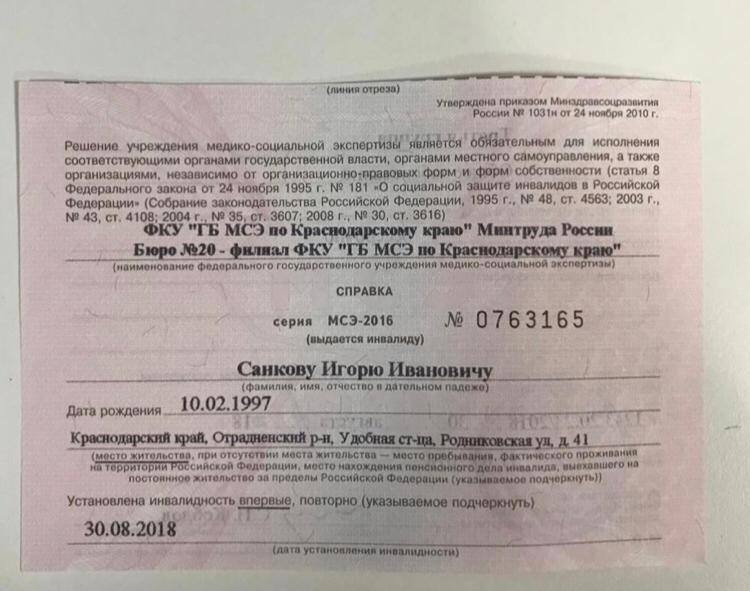
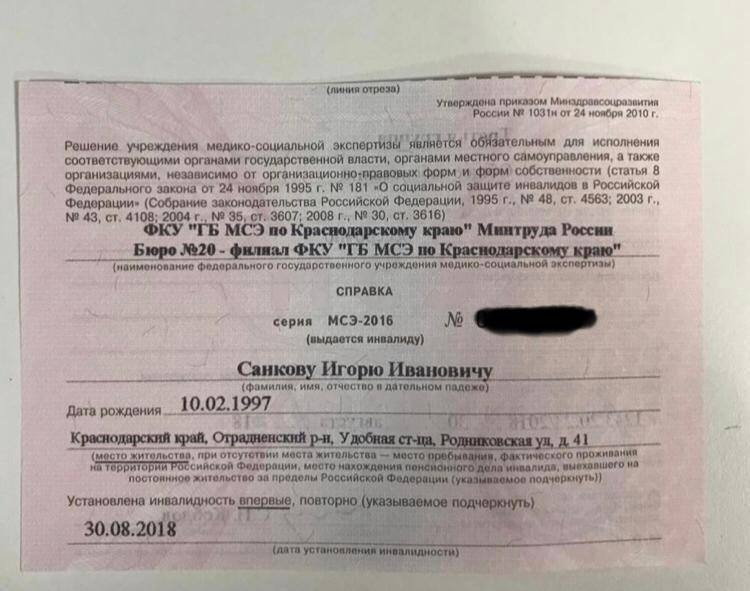
fix: client feedback — rename donate section, reorder, TRX→USDT, blur passports
- Rename "How You Can Help" → "How to Help (Payment Details)" / "Как помочь (реквизиты)"
- Move Donate section above Documents (client standard for charity sites)
- Change TRON (TRX) crypto card to USDT (TRC-20) with Tether icon
- Update nav order: How to Help (CTA) before Documents
- Replace passport photos with blurred versions (series/numbers redacted)

Changed region(s): [[0.6133, 0.5178, 0.7973, 0.5787]]

diff --git a/index.html b/index.html
@@ -42,9 +42,9 @@
                 <a href="#about" class="header__link" data-i18n="nav_about">My Story</a>
                 <a href="#diagnosis" class="header__link" data-i18n="nav_diagnosis">Diagnosis</a>
                 <a href="#rehab" class="header__link" data-i18n="nav_rehab">Rehabilitation</a>
+                <a href="#donate" class="header__link header__link--cta" data-i18n="nav_donate">How to Help</a>
                 <a href="#documents" class="header__link" data-i18n="nav_documents">Documents</a>
                 <a href="#contacts" class="header__link" data-i18n="nav_contacts">Contact</a>
-                <a href="#donate" class="header__link header__link--cta" data-i18n="nav_donate">Donate</a>
             </nav>
             <div class="header__right">
                 <button class="lang-switch" id="langSwitch" aria-label="Switch language">
@@ -186,11 +186,83 @@
         </div>
     </section>
 
+    <!-- ========== DONATE ========== -->
+    <section class="section section--accent" id="donate">
+        <div class="container">
+            <h2 class="section__title" data-i18n="donate_title">How to Help (Payment Details)</h2>
+            <p class="section__subtitle" data-i18n="donate_subtitle">Any support — financial or informational — gives me a chance to live fully and raise my son.</p>
+
+            <div class="crypto-cards">
+                <!-- BTC -->
+                <div class="crypto-card">
+                    <div class="crypto-card__header">
+                        <svg class="crypto-card__icon" viewBox="0 0 32 32" width="32" height="32"><circle cx="16" cy="16" r="16" fill="#F7931A"/><path d="M22.5 14.2c.3-2-1.2-3.1-3.3-3.8l.7-2.7-1.7-.4-.7 2.6c-.4-.1-.9-.2-1.4-.3l.7-2.7-1.7-.4-.7 2.7c-.4-.1-.7-.2-1-.2l-2.3-.6-.4 1.8s1.2.3 1.2.3c.7.2.8.6.8 1l-.8 3.2c0 0 .1 0 .1 0l-.1 0-1.1 4.5c-.1.2-.3.5-.7.4 0 0-1.2-.3-1.2-.3l-.8 1.9 2.2.5c.4.1.8.2 1.2.3l-.7 2.8 1.7.4.7-2.7c.5.1.9.2 1.4.3l-.7 2.7 1.7.4.7-2.8c2.9.5 5.1.3 6-2.3.7-2.1 0-3.3-1.6-4.1 1.1-.3 2-1 2.2-2.5zm-3.9 5.5c-.5 2.1-4.1 1-5.3.7l.9-3.8c1.2.3 4.9.9 4.4 3.1zm.5-5.5c-.5 1.9-3.5.9-4.4.7l.8-3.4c1 .2 4.1.7 3.6 2.7z" fill="#fff"/></svg>
+                        <span class="crypto-card__name">Bitcoin (BTC)</span>
+                    </div>
+                    <div class="crypto-card__address-row">
+                        <code class="crypto-card__address" id="addr-btc">3D8VqbtrFJvCijUMFXQT9sSiSg5KHkBb73</code>
+                        <button class="crypto-card__copy" data-copy="3D8VqbtrFJvCijUMFXQT9sSiSg5KHkBb73" aria-label="Copy BTC address">
+                            <svg viewBox="0 0 24 24" width="18" height="18" fill="none" stroke="currentColor" stroke-width="2"><rect x="9" y="9" width="13" height="13" rx="2"/><path d="M5 15H4a2 2 0 01-2-2V4a2 2 0 012-2h9a2 2 0 012 2v1"/></svg>
+                            <span data-i18n="copy_btn">Copy</span>
+                        </button>
+                    </div>
+                </div>
+
+                <!-- TON -->
+                <div class="crypto-card">
+                    <div class="crypto-card__header">
+                        <svg class="crypto-card__icon" viewBox="0 0 32 32" width="32" height="32"><circle cx="16" cy="16" r="16" fill="#0098EA"/><path d="M10.8 10.4h10.4c1 0 1.7.5 2.1 1.2.4.7.4 1.6-.1 2.4L17 24.3c-.3.4-.6.5-1 .5s-.7-.1-1-.5L8.8 14c-.5-.8-.5-1.7-.1-2.4.4-.7 1.1-1.2 2.1-1.2zm4.3 2.3v8.1l-4.5-6.7c-.2-.3-.2-.5-.1-.8.1-.2.3-.4.7-.4h3.9v-.2zm1.8 0v.2h3.9c.4 0 .6.2.7.4.1.3.1.5-.1.8l-4.5 6.7v-8.1z" fill="#fff"/></svg>
+                        <span class="crypto-card__name">TON</span>
+                    </div>
+                    <div class="crypto-card__address-row">
+                        <code class="crypto-card__address" id="addr-ton">UQDLyrVzIJvvxa_93HpurmGZ-ssXjeB9YnVlUbZwrJx02Ih-</code>
+                        <button class="crypto-card__copy" data-copy="UQDLyrVzIJvvxa_93HpurmGZ-ssXjeB9YnVlUbZwrJx02Ih-" aria-label="Copy TON address">
+                            <svg viewBox="0 0 24 24" width="18" height="18" fill="none" stroke="currentColor" stroke-width="2"><rect x="9" y="9" width="13" height="13" rx="2"/><path d="M5 15H4a2 2 0 01-2-2V4a2 2 0 012-2h9a2 2 0 012 2v1"/></svg>
+                            <span data-i18n="copy_btn">Copy</span>
+                        </button>
+                    </div>
+                </div>
+
+                <!-- USDT TRC-20 -->
+                <div class="crypto-card">
+                    <div class="crypto-card__header">
+                        <svg class="crypto-card__icon" viewBox="0 0 32 32" width="32" height="32"><circle cx="16" cy="16" r="16" fill="#26A17B"/><path d="M17.9 17.1v0c-.1 0-.7.1-2 .1-1 0-1.7 0-1.9-.1-3.7-.2-6.5-1-6.5-2s2.8-1.8 6.5-2v3.2c.3 0 .9.1 2 .1 1.3 0 1.8-.1 1.9-.1v-3.2c3.7.2 6.4 1 6.4 2s-2.7 1.8-6.4 2zm0-4.3v-2.9h5.5V7h-15v2.9h5.5v2.9c-4.2.2-7.3 1.3-7.3 2.5s3.1 2.3 7.3 2.5v9h4v-9c4.1-.2 7.2-1.2 7.2-2.5s-3.1-2.3-7.2-2.5z" fill="#fff"/></svg>
+                        <span class="crypto-card__name">USDT (TRC-20)</span>
+                    </div>
+                    <div class="crypto-card__address-row">
+                        <code class="crypto-card__address" id="addr-usdt">TPA4BQ2QBHq5hQnzwANqUGS7u9sW48oBBe</code>
+                        <button class="crypto-card__copy" data-copy="TPA4BQ2QBHq5hQnzwANqUGS7u9sW48oBBe" aria-label="Copy USDT address">
+                            <svg viewBox="0 0 24 24" width="18" height="18" fill="none" stroke="currentColor" stroke-width="2"><rect x="9" y="9" width="13" height="13" rx="2"/><path d="M5 15H4a2 2 0 01-2-2V4a2 2 0 012-2h9a2 2 0 012 2v1"/></svg>
+                            <span data-i18n="copy_btn">Copy</span>
+                        </button>
+                    </div>
+                </div>
+            </div>
+
+            <p class="donate__share-text" data-i18n="donate_share_text">You can also help by sharing this page.</p>
+
+            <div class="share-buttons">
+                <a class="share-btn share-btn--twitter" id="shareTwitter" href="#" target="_blank" rel="noopener noreferrer" aria-label="Share on X/Twitter">
+                    <svg viewBox="0 0 24 24" width="20" height="20" fill="currentColor"><path d="M18.244 2.25h3.308l-7.227 8.26 8.502 11.24H16.17l-5.214-6.817L4.99 21.75H1.68l7.73-8.835L1.254 2.25H8.08l4.713 6.231zm-1.161 17.52h1.833L7.084 4.126H5.117z"/></svg>
+                    <span data-i18n="share_twitter">Share on X</span>
+                </a>
+                <a class="share-btn share-btn--telegram" id="shareTelegram" href="#" target="_blank" rel="noopener noreferrer" aria-label="Share on Telegram">
+                    <svg viewBox="0 0 24 24" width="20" height="20" fill="currentColor"><path d="M11.944 0A12 12 0 0 0 0 12a12 12 0 0 0 12 12 12 12 0 0 0 12-12A12 12 0 0 0 12 0a12 12 0 0 0-.056 0zm4.962 7.224c.1-.002.321.023.465.14a.506.506 0 0 1 .171.325c.016.093.036.306.02.472-.18 1.898-.962 6.502-1.36 8.627-.168.9-.499 1.201-.82 1.23-.696.065-1.225-.46-1.9-.902-1.056-.693-1.653-1.124-2.678-1.8-1.185-.78-.417-1.21.258-1.91.177-.184 3.247-2.977 3.307-3.23.007-.032.014-.15-.056-.212s-.174-.041-.249-.024c-.106.024-1.793 1.14-5.061 3.345-.479.33-.913.49-1.302.48-.428-.008-1.252-.241-1.865-.44-.752-.245-1.349-.374-1.297-.789.027-.216.325-.437.893-.663 3.498-1.524 5.83-2.529 6.998-3.014 3.332-1.386 4.025-1.627 4.476-1.635z"/></svg>
+                    <span data-i18n="share_telegram">Telegram</span>
+                </a>
+                <a class="share-btn share-btn--whatsapp" id="shareWhatsApp" href="#" target="_blank" rel="noopener noreferrer" aria-label="Share on WhatsApp">
+                    <svg viewBox="0 0 24 24" width="20" height="20" fill="currentColor"><path d="M17.472 14.382c-.297-.149-1.758-.867-2.03-.967-.273-.099-.471-.148-.67.15-.197.297-.767.966-.94 1.164-.173.199-.347.223-.644.075-.297-.15-1.255-.463-2.39-1.475-.883-.788-1.48-1.761-1.653-2.059-.173-.297-.018-.458.13-.606.134-.133.298-.347.446-.52.149-.174.198-.298.298-.497.099-.198.05-.371-.025-.52-.075-.149-.669-1.612-.916-2.207-.242-.579-.487-.5-.669-.51-.173-.008-.371-.01-.57-.01-.198 0-.52.074-.792.372-.272.297-1.04 1.016-1.04 2.479 0 1.462 1.065 2.875 1.213 3.074.149.198 2.096 3.2 5.077 4.487.709.306 1.262.489 1.694.625.712.227 1.36.195 1.871.118.571-.085 1.758-.719 2.006-1.413.248-.694.248-1.289.173-1.413-.074-.124-.272-.198-.57-.347m-5.421 7.403h-.004a9.87 9.87 0 01-5.031-1.378l-.361-.214-3.741.982.998-3.648-.235-.374a9.86 9.86 0 01-1.51-5.26c.001-5.45 4.436-9.884 9.888-9.884 2.64 0 5.122 1.03 6.988 2.898a9.825 9.825 0 012.893 6.994c-.003 5.45-4.437 9.884-9.885 9.884m8.413-18.297A11.815 11.815 0 0012.05 0C5.495 0 .16 5.335.157 11.892c0 2.096.547 4.142 1.588 5.945L.057 24l6.305-1.654a11.882 11.882 0 005.683 1.448h.005c6.554 0 11.89-5.335 11.893-11.893a11.821 11.821 0 00-3.48-8.413z"/></svg>
+                    <span data-i18n="share_whatsapp">WhatsApp</span>
+                </a>
+                <button class="share-btn share-btn--link" id="shareCopyLink" aria-label="Copy link">
+                    <svg viewBox="0 0 24 24" width="20" height="20" fill="none" stroke="currentColor" stroke-width="2"><path d="M10 13a5 5 0 0 0 7.54.54l3-3a5 5 0 0 0-7.07-7.07l-1.72 1.71"/><path d="M14 11a5 5 0 0 0-7.54-.54l-3 3a5 5 0 0 0 7.07 7.07l1.71-1.71"/></svg>
+                    <span data-i18n="share_copy_link">Copy Link</span>
+                </button>
+            </div>
+        </div>
+    </section>
+
     <!-- ========== DOCUMENTS ========== -->
-    <!-- NOTE: Passport photos (photo_...36, photo_...38) and disability certificate (photo_...29)
-         contain sensitive personal data that needs to be blurred before production deployment.
-         Specifically: passport numbers, subdivision codes, MRZ strips, residential address.
-         This blurring will be done in a separate processing step. -->
     <section class="section section--gray" id="documents">
         <div class="container">
             <h2 class="section__title" data-i18n="docs_title">Supporting Documents</h2>
@@ -231,82 +303,6 @@
                          loading="lazy">
                     <span class="docs-card__label" data-i18n="doc5_label">International Passport</span>
                 </div>
-            </div>
-        </div>
-    </section>
-
-    <!-- ========== DONATE ========== -->
-    <section class="section section--accent" id="donate">
-        <div class="container">
-            <h2 class="section__title" data-i18n="donate_title">How You Can Help</h2>
-            <p class="section__subtitle" data-i18n="donate_subtitle">Any support — financial or informational — gives me a chance to live fully and raise my son.</p>
-
-            <div class="crypto-cards">
-                <!-- BTC -->
-                <div class="crypto-card">
-                    <div class="crypto-card__header">
-                        <svg class="crypto-card__icon" viewBox="0 0 32 32" width="32" height="32"><circle cx="16" cy="16" r="16" fill="#F7931A"/><path d="M22.5 14.2c.3-2-1.2-3.1-3.3-3.8l.7-2.7-1.7-.4-.7 2.6c-.4-.1-.9-.2-1.4-.3l.7-2.7-1.7-.4-.7 2.7c-.4-.1-.7-.2-1-.2l-2.3-.6-.4 1.8s1.2.3 1.2.3c.7.2.8.6.8 1l-.8 3.2c0 0 .1 0 .1 0l-.1 0-1.1 4.5c-.1.2-.3.5-.7.4 0 0-1.2-.3-1.2-.3l-.8 1.9 2.2.5c.4.1.8.2 1.2.3l-.7 2.8 1.7.4.7-2.7c.5.1.9.2 1.4.3l-.7 2.7 1.7.4.7-2.8c2.9.5 5.1.3 6-2.3.7-2.1 0-3.3-1.6-4.1 1.1-.3 2-1 2.2-2.5zm-3.9 5.5c-.5 2.1-4.1 1-5.3.7l.9-3.8c1.2.3 4.9.9 4.4 3.1zm.5-5.5c-.5 1.9-3.5.9-4.4.7l.8-3.4c1 .2 4.1.7 3.6 2.7z" fill="#fff"/></svg>
-                        <span class="crypto-card__name">Bitcoin (BTC)</span>
-                    </div>
-                    <div class="crypto-card__address-row">
-                        <code class="crypto-card__address" id="addr-btc">3D8VqbtrFJvCijUMFXQT9sSiSg5KHkBb73</code>
-                        <button class="crypto-card__copy" data-copy="3D8VqbtrFJvCijUMFXQT9sSiSg5KHkBb73" aria-label="Copy BTC address">
-                            <svg viewBox="0 0 24 24" width="18" height="18" fill="none" stroke="currentColor" stroke-width="2"><rect x="9" y="9" width="13" height="13" rx="2"/><path d="M5 15H4a2 2 0 01-2-2V4a2 2 0 012-2h9a2 2 0 012 2v1"/></svg>
-                            <span data-i18n="copy_btn">Copy</span>
-                        </button>
-                    </div>
-                </div>
-
-                <!-- TON -->
-                <div class="crypto-card">
-                    <div class="crypto-card__header">
-                        <svg class="crypto-card__icon" viewBox="0 0 32 32" width="32" height="32"><circle cx="16" cy="16" r="16" fill="#0098EA"/><path d="M10.8 10.4h10.4c1 0 1.7.5 2.1 1.2.4.7.4 1.6-.1 2.4L17 24.3c-.3.4-.6.5-1 .5s-.7-.1-1-.5L8.8 14c-.5-.8-.5-1.7-.1-2.4.4-.7 1.1-1.2 2.1-1.2zm4.3 2.3v8.1l-4.5-6.7c-.2-.3-.2-.5-.1-.8.1-.2.3-.4.7-.4h3.9v-.2zm1.8 0v.2h3.9c.4 0 .6.2.7.4.1.3.1.5-.1.8l-4.5 6.7v-8.1z" fill="#fff"/></svg>
-                        <span class="crypto-card__name">TON</span>
-                    </div>
-                    <div class="crypto-card__address-row">
-                        <code class="crypto-card__address" id="addr-ton">UQDLyrVzIJvvxa_93HpurmGZ-ssXjeB9YnVlUbZwrJx02Ih-</code>
-                        <button class="crypto-card__copy" data-copy="UQDLyrVzIJvvxa_93HpurmGZ-ssXjeB9YnVlUbZwrJx02Ih-" aria-label="Copy TON address">
-                            <svg viewBox="0 0 24 24" width="18" height="18" fill="none" stroke="currentColor" stroke-width="2"><rect x="9" y="9" width="13" height="13" rx="2"/><path d="M5 15H4a2 2 0 01-2-2V4a2 2 0 012-2h9a2 2 0 012 2v1"/></svg>
-                            <span data-i18n="copy_btn">Copy</span>
-                        </button>
-                    </div>
-                </div>
-
-                <!-- TRX -->
-                <div class="crypto-card">
-                    <div class="crypto-card__header">
-                        <svg class="crypto-card__icon" viewBox="0 0 32 32" width="32" height="32"><circle cx="16" cy="16" r="16" fill="#EF0027"/><path d="M9 8.5l14 3.5-9.5 13L9 8.5zm2.2 2.4l2.3 9.1 6.3-8.7-8.6-.4zm3.6 1.3l5.2.3-3.8 5.3-1.4-5.6z" fill="#fff"/></svg>
-                        <span class="crypto-card__name">TRON (TRX)</span>
-                    </div>
-                    <div class="crypto-card__address-row">
-                        <code class="crypto-card__address" id="addr-trx">TPA4BQ2QBHq5hQnzwANqUGS7u9sW48oBBe</code>
-                        <button class="crypto-card__copy" data-copy="TPA4BQ2QBHq5hQnzwANqUGS7u9sW48oBBe" aria-label="Copy TRX address">
-                            <svg viewBox="0 0 24 24" width="18" height="18" fill="none" stroke="currentColor" stroke-width="2"><rect x="9" y="9" width="13" height="13" rx="2"/><path d="M5 15H4a2 2 0 01-2-2V4a2 2 0 012-2h9a2 2 0 012 2v1"/></svg>
-                            <span data-i18n="copy_btn">Copy</span>
-                        </button>
-                    </div>
-                </div>
-            </div>
-
-            <p class="donate__share-text" data-i18n="donate_share_text">You can also help by sharing this page.</p>
-
-            <div class="share-buttons">
-                <a class="share-btn share-btn--twitter" id="shareTwitter" href="#" target="_blank" rel="noopener noreferrer" aria-label="Share on X/Twitter">
-                    <svg viewBox="0 0 24 24" width="20" height="20" fill="currentColor"><path d="M18.244 2.25h3.308l-7.227 8.26 8.502 11.24H16.17l-5.214-6.817L4.99 21.75H1.68l7.73-8.835L1.254 2.25H8.08l4.713 6.231zm-1.161 17.52h1.833L7.084 4.126H5.117z"/></svg>
-                    <span data-i18n="share_twitter">Share on X</span>
-                </a>
-                <a class="share-btn share-btn--telegram" id="shareTelegram" href="#" target="_blank" rel="noopener noreferrer" aria-label="Share on Telegram">
-                    <svg viewBox="0 0 24 24" width="20" height="20" fill="currentColor"><path d="M11.944 0A12 12 0 0 0 0 12a12 12 0 0 0 12 12 12 12 0 0 0 12-12A12 12 0 0 0 12 0a12 12 0 0 0-.056 0zm4.962 7.224c.1-.002.321.023.465.14a.506.506 0 0 1 .171.325c.016.093.036.306.02.472-.18 1.898-.962 6.502-1.36 8.627-.168.9-.499 1.201-.82 1.23-.696.065-1.225-.46-1.9-.902-1.056-.693-1.653-1.124-2.678-1.8-1.185-.78-.417-1.21.258-1.91.177-.184 3.247-2.977 3.307-3.23.007-.032.014-.15-.056-.212s-.174-.041-.249-.024c-.106.024-1.793 1.14-5.061 3.345-.479.33-.913.49-1.302.48-.428-.008-1.252-.241-1.865-.44-.752-.245-1.349-.374-1.297-.789.027-.216.325-.437.893-.663 3.498-1.524 5.83-2.529 6.998-3.014 3.332-1.386 4.025-1.627 4.476-1.635z"/></svg>
-                    <span data-i18n="share_telegram">Telegram</span>
-                </a>
-                <a class="share-btn share-btn--whatsapp" id="shareWhatsApp" href="#" target="_blank" rel="noopener noreferrer" aria-label="Share on WhatsApp">
-                    <svg viewBox="0 0 24 24" width="20" height="20" fill="currentColor"><path d="M17.472 14.382c-.297-.149-1.758-.867-2.03-.967-.273-.099-.471-.148-.67.15-.197.297-.767.966-.94 1.164-.173.199-.347.223-.644.075-.297-.15-1.255-.463-2.39-1.475-.883-.788-1.48-1.761-1.653-2.059-.173-.297-.018-.458.13-.606.134-.133.298-.347.446-.52.149-.174.198-.298.298-.497.099-.198.05-.371-.025-.52-.075-.149-.669-1.612-.916-2.207-.242-.579-.487-.5-.669-.51-.173-.008-.371-.01-.57-.01-.198 0-.52.074-.792.372-.272.297-1.04 1.016-1.04 2.479 0 1.462 1.065 2.875 1.213 3.074.149.198 2.096 3.2 5.077 4.487.709.306 1.262.489 1.694.625.712.227 1.36.195 1.871.118.571-.085 1.758-.719 2.006-1.413.248-.694.248-1.289.173-1.413-.074-.124-.272-.198-.57-.347m-5.421 7.403h-.004a9.87 9.87 0 01-5.031-1.378l-.361-.214-3.741.982.998-3.648-.235-.374a9.86 9.86 0 01-1.51-5.26c.001-5.45 4.436-9.884 9.888-9.884 2.64 0 5.122 1.03 6.988 2.898a9.825 9.825 0 012.893 6.994c-.003 5.45-4.437 9.884-9.885 9.884m8.413-18.297A11.815 11.815 0 0012.05 0C5.495 0 .16 5.335.157 11.892c0 2.096.547 4.142 1.588 5.945L.057 24l6.305-1.654a11.882 11.882 0 005.683 1.448h.005c6.554 0 11.89-5.335 11.893-11.893a11.821 11.821 0 00-3.48-8.413z"/></svg>
-                    <span data-i18n="share_whatsapp">WhatsApp</span>
-                </a>
-                <button class="share-btn share-btn--link" id="shareCopyLink" aria-label="Copy link">
-                    <svg viewBox="0 0 24 24" width="20" height="20" fill="none" stroke="currentColor" stroke-width="2"><path d="M10 13a5 5 0 0 0 7.54.54l3-3a5 5 0 0 0-7.07-7.07l-1.72 1.71"/><path d="M14 11a5 5 0 0 0-7.54-.54l-3 3a5 5 0 0 0 7.07 7.07l1.71-1.71"/></svg>
-                    <span data-i18n="share_copy_link">Copy Link</span>
-                </button>
             </div>
         </div>
     </section>

diff --git a/js/main.js b/js/main.js
@@ -9,7 +9,7 @@ const translations = {
         nav_diagnosis: 'Diagnosis',
         nav_rehab: 'Rehabilitation',
         nav_documents: 'Documents',
-        nav_donate: 'Donate',
+        nav_donate: 'How to Help',
         nav_contacts: 'Contact',
 
         // Hero
@@ -63,7 +63,7 @@ const translations = {
         doc5_alt: 'International passport',
 
         // Donate
-        donate_title: 'How You Can Help',
+        donate_title: 'How to Help (Payment Details)',
         donate_subtitle: 'Any support — financial or informational — gives me a chance to live fully and raise my son.',
         copy_btn: 'Copy',
         copy_done: 'Copied!',
@@ -142,7 +142,7 @@ const translations = {
         doc5_alt: 'Загранпаспорт',
 
         // Donate
-        donate_title: 'Как помочь',
+        donate_title: 'Как помочь (реквизиты)',
         donate_subtitle: 'Любая помощь — материальная или информационная — даст мне шанс жить полноценно и растить сына.',
         copy_btn: 'Скопировать',
         copy_done: 'Скопировано!',
